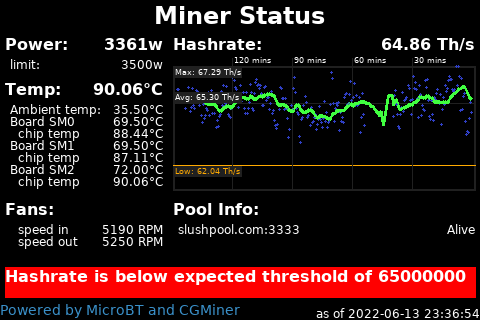
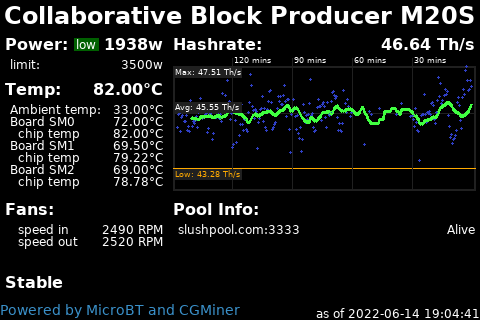
Low power mode for MicroBT (#95)
* Low power mode for MicroBT

* conditional logic fix

diff --git a/scripts/minermicrobt.py b/scripts/minermicrobt.py
@@ -103,6 +103,18 @@ def getTempSettings(minerinfo):
             chipmax = float(minerexpectations["temps"]["maxchip"])
     return str(format(envmax, ".2f")) + "°C", str(format(boardmax, ".2f")) + "°C", str(format(chipmax, ".2f")) + "°C"
 
+def isLowPowerMode(minerinfo):
+    islow = False
+    if "summary" in minerinfo:
+        for s in minerinfo["summary"]:
+            if "SUMMARY" in s:
+               for t in s["SUMMARY"]:
+                   if "Power Mode" in t:
+                       powermode = t["Power Mode"]
+                       if powermode == "Low":
+                           islow = True
+    return islow
+
 def renderPower(draw, minerinfo, left, top, width, height):
     groupFontSize = 16
     subtextFontSize = 12
@@ -113,6 +125,11 @@ def renderPower(draw, minerinfo, left, top, width, height):
     print(f"  power used: {spowerused} (limit: {spowerlimit})")
     vicarioustext.drawtoplefttext(draw, "Power: ", groupFontSize, left, top, colorTextFG, True)
     vicarioustext.drawtoprighttext(draw, spowerused, groupFontSize, left+width, top, colorTextFG, True)
+    if isLowPowerMode(minerinfo):
+        sw,sh,f = vicarioustext.gettextdimensions(draw, "Power: ", groupFontSize, True)
+        lw,lh,f = vicarioustext.gettextdimensions(draw, "low ", subtextFontSize, False)
+        draw.rectangle(xy=[(left + sw, top + sh - lh),(left + sw + lw, top + sh)],fill=colorLowPowerMode,outline=colorLowPowerMode,width=2)
+        vicarioustext.drawcenteredtext(draw, "low", subtextFontSize, left + sw + (lw/2), top + sh - (lh/2), colorTextFG, False)
     vicarioustext.drawtoplefttext(draw, "limit: ", subtextFontSize, left + subtextPadding, top + groupFontSize + (subtextFontSize * .5), colorTextFG)
     vicarioustext.drawtoprighttext(draw, spowerlimit, subtextFontSize, left+width, top + groupFontSize + (subtextFontSize * .5), colorTextFG)
 
@@ -382,6 +399,9 @@ def renderFailedExpectations(draw, minerinfo, left, top, width, height):
         else:
             if "low" in minerexpectations["power"]:
                 lowpowerthreshold = minerexpectations["power"]["low"]
+                if isLowPowerMode(minerinfo):
+                    if "lowmodelow" in minerexpectations["power"]:
+                        lowpowerthreshold = minerexpectations["power"]["lowmodelow"]
                 if lowpowerthreshold > powerused:
                     warning = "Power below expected threshold of " + str(lowpowerthreshold)
             if "high" in minerexpectations["power"]:
@@ -402,6 +422,9 @@ def renderFailedExpectations(draw, minerinfo, left, top, width, height):
                         hashrate = innersummary["MHS 1m"]
         if "low" in minerexpectations["hashrate"]:
             lowhashratethreshold = minerexpectations["hashrate"]["low"]
+            if isLowPowerMode(minerinfo):
+                if "lowmodelow" in minerexpectations["hashrate"]:
+                    lowhashratethreshold = minerexpectations["hashrate"]["lowmodelow"]
             if lowhashratethreshold > hashrate:
                 warning = "Hashrate is below expected threshold of " + str(lowhashratethreshold)
     if len(warning) == 0 and "fans" in minerexpectations:
@@ -573,6 +596,7 @@ if __name__ == '__main__':
     colorHashrateBox=ImageColor.getrgb("#202020")
     colorHashratePlot=ImageColor.getrgb("#2f3fc5")
     colorHashrateMA=ImageColor.getrgb("#40ff40")
+    colorLowPowerMode=ImageColor.getrgb("#006000")
     # Inits
     lastSaved = 0
     saveInterval = 600
@@ -616,6 +640,8 @@ if __name__ == '__main__':
             colorHashratePlot = ImageColor.getrgb(config["colorHashratePlot"])
         if "colorHashrateMA" in config:
             colorHashrateMA = ImageColor.getrgb(config["colorHashrateMA"])
+        if "colorLowPowerMode" in config:
+            colorLowPowerMode = ImageColor.getrgb(config["colorLowPowerMode"])
     # Data directories
     if not exists(dataDirectory):
         os.makedirs(dataDirectory)
@@ -636,8 +662,13 @@ if __name__ == '__main__':
         if "miners" in config:
             miners = config["miners"]
             for miner in miners:
+                enabled = True
                 minerlabel=""
                 mineraddress=""
+                if "enabled" in miner:
+                    enabled = miner["enabled"]
+                if not enabled:
+                    continue
                 if "mineraddress" in miner:
                     mineraddress = miner["mineraddress"]
                 if "minerlabel" in miner:

diff --git a/scripts/minerbraiins.py b/scripts/minerbraiins.py
@@ -617,8 +617,13 @@ if __name__ == '__main__':
         if "miners" in config:
             miners = config["miners"]
             for miner in miners:
+                enabled = True
                 minerlabel=""
                 mineraddress=""
+                if "enabled" in miner:
+                    enabled = miner["enabled"]
+                if not enabled:
+                    continue
                 if "mineraddress" in miner:
                     mineraddress = miner["mineraddress"]
                 if "minerlabel" in miner:

diff --git a/docs/script-minermicrobt.md b/docs/script-minermicrobt.md
@@ -48,12 +48,14 @@ The script is installed at [/home/nodeyez/nodeyez/scripts/minermicrobt.py](../sc
    | colorHashrateBox | The color of the border, average line and label backgrounds for the hashrate graph expressed as a Hexadecimal color specifier. Default `#202020` |
    | colorHashratePlot | The color to plot each hashrate value within the hashrate graph expressed as a Hexadecimal color specifier. Default `#2f3fc5` |
    | colorHashrateMA | The color to draw the hashrate moving average line expressed as a Hexadecimal color specifier. Default `#40ff40` |
+   | colorLowPowerMode | The color to draw the label background indicating if running in low power mode expressed as a Hexadecimal color specifier. Default `#006000` |
    | miners | An array of one or more miners. The structure of a miner is defined below |
 
    __miner__
 
    | field name | description |
    | --- | --- |
+   | enabled | Inidicates whether this miner configuration is enabled for monitoring |
    | minerlabel | A unique label to give this miner. If provided, it is used as the label in the header area of the image |
    | mineraddress | *required* The ip or host address for your miner on your local lan, accessible from the host running the script |
    | expectations | An optional structure defining expectations to monitor for. A setting out of range will cause a warning to be rendered. The structure is defined below |
@@ -75,12 +77,14 @@ The script is installed at [/home/nodeyez/nodeyez/scripts/minermicrobt.py](../sc
    | --- | --- |
    | low | An optional property to define the low end of expected power range, in watts. |
    | high | An optional property to define the high end of expected power range, in watts. |
+   | lowmodelow | An optional property to define the low end of expected power usage, in watts, when running in low power mode. |
 
    __hashrate__
 
    | field name | description |
    | --- | --- |
    | low | An optional property to define the low end of expected hashrate, in MH/s |
+   | lowmodelow | An optional property to define the low end of expected hashrate, in MH/s, when running in low power mode. |
 
    __pools__
 

diff --git a/docs/script-minerbraiins.md b/docs/script-minerbraiins.md
@@ -52,6 +52,7 @@ The script is installed at [/home/nodeyez/nodeyez/scripts/minerbraiins.py](../sc
 
    | field name | description |
    | --- | --- |
+   | enabled | Indicates whether this miner configuration is enabled for monitoring |
    | minerlabel | A unique label to give this miner. If provided, it is used as the label in the header area of the image |
    | mineraddress | *required* The ip or host address for your miner on your local lan, accessible from the host running the script |
    | expectations | An optional structure defining expectations to monitor for. A setting out of range will cause a warning to be rendered. The structure is defined below |
